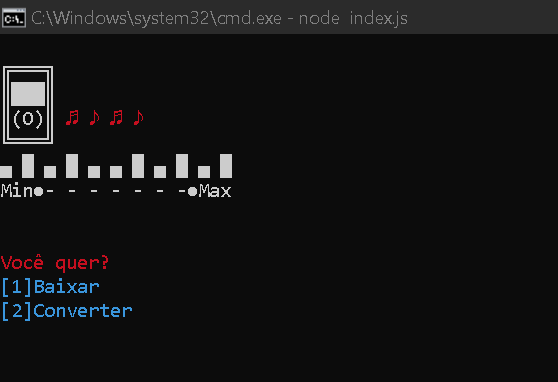
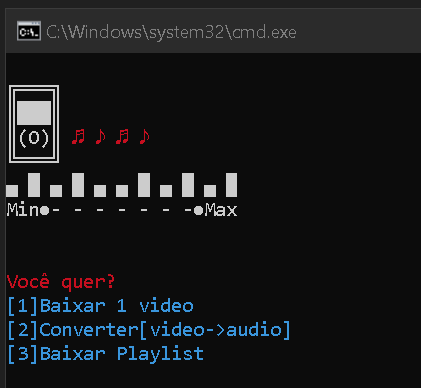
Add files via upload

diff --git a/index.js b/index.js
@@ -1,7 +1,10 @@
 const ffmpeg = require("fluent-ffmpeg");
 const ffmpegPath = require("@ffmpeg-installer/ffmpeg").path;
 const readline = require("readline");
-const { exec } = require("child_process");
+const ytdl = require("ytdl-core");
+const fs = require("fs");
+const ytpl = require("ytpl");
+const { exit } = require("node:process");
 ffmpeg.setFfmpegPath(ffmpegPath);
 
 const rl = readline.createInterface({
@@ -24,15 +27,19 @@ const legal =
   "\n░░░░░░░░░░░░░░░░░░░░░░█████████░░░░░░░░░\n░░███████░░░░░░░░░░███▒▒▒▒▒▒▒▒███░░░░░░░\n░░█▒▒▒▒▒▒█░░░░░░░███▒▒▒▒▒▒▒▒▒▒▒▒▒███░░░░\n░░░█▒▒▒▒▒▒█░░░░██▒▒▒▒▒▒▒▒▒▒▒▒▒▒▒▒▒▒▒██░░\n░░░░█▒▒▒▒▒█░░░██▒▒▒▒▒██▒▒▒▒▒▒██▒▒▒▒▒███░\n░░░░░█▒▒▒█░░░█▒▒▒▒▒▒████▒▒▒▒████▒▒▒▒▒▒██\n░░░█████████████▒▒▒▒▒▒▒▒▒▒▒▒▒▒▒▒▒▒▒▒▒▒██\n░░░█▒▒▒▒▒▒▒▒▒▒▒▒█▒▒▒▒▒▒▒▒▒█▒▒▒▒▒▒▒▒▒▒▒██\n░██▒▒▒▒▒▒▒▒▒▒▒▒▒█▒▒▒██▒▒▒▒▒▒▒▒▒▒██▒▒▒▒██\n██▒▒▒███████████▒▒▒▒▒██▒▒▒▒▒▒▒▒██▒▒▒▒▒██\n█▒▒▒▒▒▒▒▒▒▒▒▒▒▒▒█▒▒▒▒▒▒████████▒▒▒▒▒▒▒██\n██▒▒▒▒▒▒▒▒▒▒▒▒▒▒█▒▒▒▒▒▒▒▒▒▒▒▒▒▒▒▒▒▒▒▒██░\n░█▒▒▒███████████▒▒▒▒▒▒▒▒▒▒▒▒▒▒▒▒▒▒▒██░░░\n░██▒▒▒▒▒▒▒▒▒▒████▒▒▒▒▒▒▒▒▒▒▒▒▒▒▒▒▒█░░░░░\n░░████████████░░░█████████████████░░░░░░";
 
 const information = () => {
-  console.clear();
   console.log(asciiIMG);
-  const msg = `${red}Você quer?\n${ciano}[1]Baixar\n[2]Converter\n${reset}`;
+  const msg = `${red}Você quer?\n${ciano}[1]Baixar 1 video\n[2]Converter[video->audio]\n[3]Baixar Playlist\n${reset}`;
   rl.question(msg, (resp) => {
-    if (resp == 1) {
-      baixar();
-    }
-    if (resp == 2) {
-      converter();
+    switch (Number(resp)) {
+      case 1:
+        baixar();
+        break;
+      case 2:
+        converter();
+        break;
+      case 3:
+        baixarPlaylist();
+        break;
     }
   });
 };
@@ -44,26 +51,32 @@ const baixar = () => {
       if (resp == 1) {
         rl.question(msgLink, (resp) => {
           console.log(verde, "Baixando o video...", reset);
-          exec(`youtube-dl.exe ${resp}`).on("close", () => {
+          ytdl.getBasicInfo(resp).then((d) => {
+            ytdl(resp).pipe(
+              fs.createWriteStream(output + `${d.videoDetails.title}.mp4`)
+            );
             console.log(
               `terminou de baixar o video\nO arquivo está em ${red}${
-                output + "video.mp4"
-              }${reset}`
+                output + `${d.videoDetails.title}.mp4`
+              }`
             );
-            console.log(legal);
+            console.log(reset, legal);
           });
           rl.close();
         });
       } else {
         rl.question(msgLink, (resp) => {
           console.log(verde, "Baixando o audio...", reset);
-          exec(`youtube-dl.exe -f bestaudio ${resp}`).on("close", () => {
+          ytdl.getBasicInfo(resp).then((d) => {
+            ytdl(resp).pipe(
+              fs.createWriteStream(output + `${d.videoDetails.title}.mp3`)
+            );
             console.log(
               `terminou de baixar o audio\nO arquivo está em ${red}${
-                output + "audio.mp3"
-              }${reset}`
+                output + `${d.videoDetails.title}.mp3`
+              }`
             );
-            console.log(legal);
+            console.log(reset, legal);
           });
           rl.close();
         });
@@ -97,6 +110,26 @@ const convertVideoToAudio = (caminho, fileName) => {
       console.log(error);
     })
     .saveToFile(output + fileName);
+};
+
+const baixarPlaylist = () => {
+  rl.question(`${red}URL da playlist:\n${reset}`, (url) => {
+    rl.question(
+      `${red}Você quer baixar todos os itens da playlist em qual formato?${ciano}\n[1]video\n[2]audio\n${reset}`,
+      (resp) => {
+        ytpl(url).then((d) => {
+          d.items.forEach((videoItem) => {
+            console.log(`${verde}baixando ${videoItem.title}...${reset}`);
+            ytdl(videoItem.url, {
+              filter: resp == 1 ? "audioandvideo" : "audio",
+            }).pipe(fs.createWriteStream(output + `${videoItem.title}.mp4`));
+            rl.close();
+          });
+          console.log("terminou");
+        });
+      }
+    );
+  });
 };
 
 information();

diff --git a/README.md b/README.md
@@ -2,9 +2,16 @@
 Feito com NodeJS, um programa com o intuito de baixar músicas,playlists e converter video para audio.
 
 # Como usar?
-Para usa-lo é necessario apenas o javascript(NodeJS) instalado. Entre na pasta e abra um terminal naquele diretorio, em seguida escreva:
+Para usa-lo é necessario apenas o javascript(NodeJS) instalado. 
+Execute esse comando para instalar as dependências:
+`npm i`
 
-`node index.js`
+Execute o comando para inicializar o programa:
+`npm start`
+
+ou
+
+abrar o setup.bat, apenas se seu sistema operacional for Windows
 
 E então é só aproveitar
 
